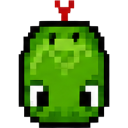
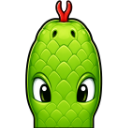
Improvement(snake): Refresh Snake board sprite art
Context:
The existing Snake sprites looked pixelated, and updated assets were supplied through `incoming-images`. Snake already renders board artwork from 128x128 public PNG sprites and rotates the four base segment sprites in CSS, so the desired outcome was to refresh the artwork without changing gameplay rules, board layout, controls, overlays, scoring, or segment orientation logic.

Implementation:
Replaced the public Snake head, tail, straight-body, corner-body, and floor cell artwork under `public/images/snake/`.

Normalized the uploaded floor texture into a 128x128 RGB runtime PNG for `public/images/snake/floor-cell.png`. Kept the Snake renderer unchanged so it continues to use the existing sprite registry, CSS background rendering, and CSS rotations for segment orientation.

Bumped `SNAKE_ASSET_VERSION` in `src/components/snake-board.tsx` from `sprite-art-v7` to `sprite-art-v10` so browsers request the refreshed artwork instead of cached sprite URLs.

Updated `src/components/game-boards.test.tsx` static renderer expectations to assert the new v10 Snake asset URLs for floor, snake segments, foods, timed foods, and obstacles.

Verification:
- Confirmed the final public Snake floor, head, straight-body, corner-body, and tail sprites are 128x128 runtime PNGs.
- Confirmed the normalized v10 floor output and `public/images/snake/floor-cell.png` had matching SHA-256 hashes.
- Ran `npm test -- src/components/game-boards.test.tsx`; 1 file and 8 tests passed.
[…]

diff --git a/src/components/game-boards.test.tsx b/src/components/game-boards.test.tsx
@@ -74,18 +74,18 @@ describe("game board renderers", () => {
       "Snake board. Field 11 by 11. Score 7. Running. 2 obstacle blocks. Yellow apple active. Purple diamond active. Blue triangle active. Cyan hexagon active.",
       'data-testid="snake-food-feedback"',
       'data-testid="snake-overlay"',
-      "/images/snake/floor-cell.png?v=sprite-art-v7",
-      "/images/snake/snake-head.png?v=sprite-art-v7",
-      "/images/snake/snake-body-straight.png?v=sprite-art-v7",
-      "/images/snake/snake-body-corner.png?v=sprite-art-v7",
-      "/images/snake/snake-tail.png?v=sprite-art-v7",
-      "/images/snake/food-red-apple.png?v=sprite-art-v7",
-      "/images/snake/food-yellow-apple.png?v=sprite-art-v7",
-      "/images/snake/food-purple-diamond.png?v=sprite-art-v7",
-      "/images/snake/food-blue-triangle.png?v=sprite-art-v7",
-      "/images/snake/food-cyan-hexagon.png?v=sprite-art-v7",
-      "/images/snake/obstacle-stone-a.png?v=sprite-art-v7",
-      "/images/snake/obstacle-stone-b.png?v=sprite-art-v7",
+      "/images/snake/floor-cell.png?v=sprite-art-v10",
+      "/images/snake/snake-head.png?v=sprite-art-v10",
+      "/images/snake/snake-body-straight.png?v=sprite-art-v10",
+      "/images/snake/snake-body-corner.png?v=sprite-art-v10",
+      "/images/snake/snake-tail.png?v=sprite-art-v10",
+      "/images/snake/food-red-apple.png?v=sprite-art-v10",
+      "/images/snake/food-yellow-apple.png?v=sprite-art-v10",
+      "/images/snake/food-purple-diamond.png?v=sprite-art-v10",
+      "/images/snake/food-blue-triangle.png?v=sprite-art-v10",
+      "/images/snake/food-cyan-hexagon.png?v=sprite-art-v10",
+      "/images/snake/obstacle-stone-a.png?v=sprite-art-v10",
+      "/images/snake/obstacle-stone-b.png?v=sprite-art-v10",
       "transform:rotate(90deg)",
     ]);
   });

diff --git a/src/components/snake-board.tsx b/src/components/snake-board.tsx
@@ -32,7 +32,7 @@ type SnakeBoardProps = {
   statusLabel: string;
 };
 
-const SNAKE_ASSET_VERSION = "sprite-art-v7";
+const SNAKE_ASSET_VERSION = "sprite-art-v10";
 const SNAKE_ASSET_ROOT = "/images/snake";
 
 function getSnakeAssetSrc(fileName: string) {
